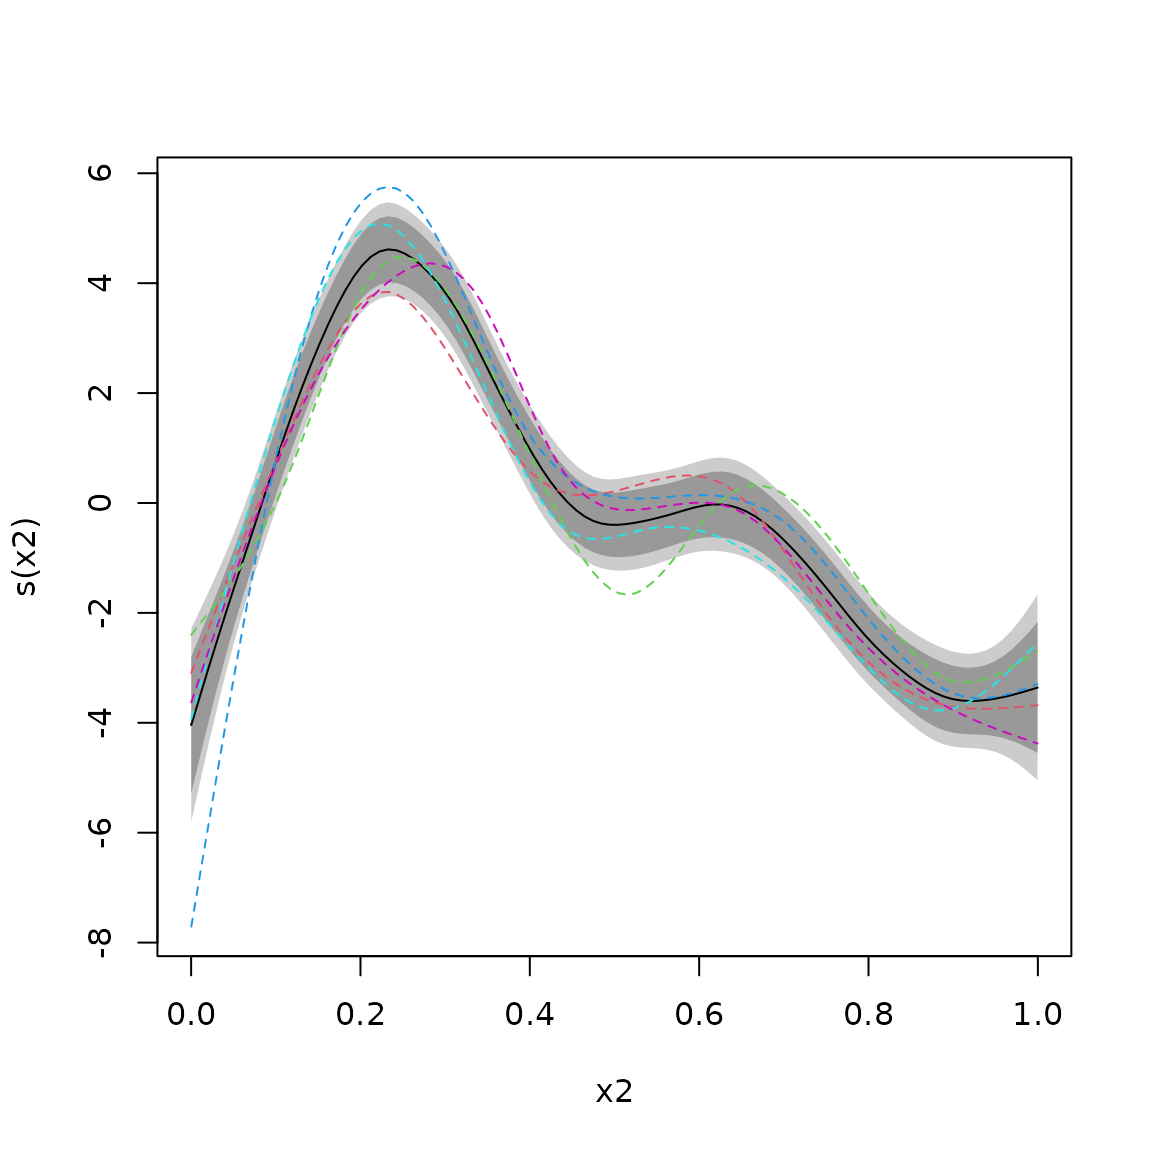
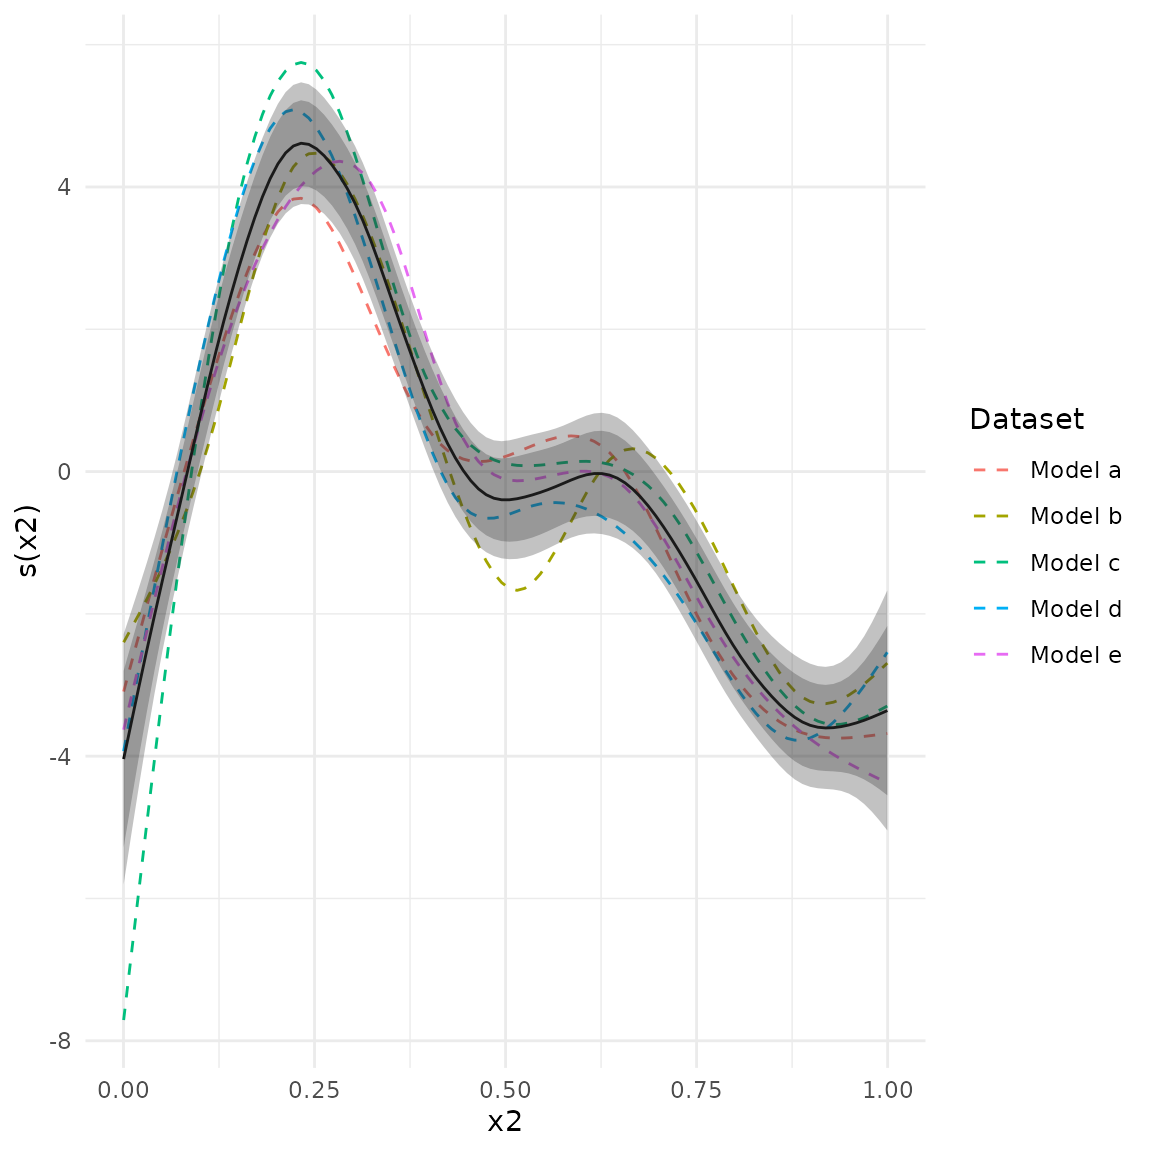
Built site for metagam: 0.3.1.9002@e67d22d

diff --git a/articles/pvals.html b/articles/pvals.html
@@ -295,11 +295,12 @@
   <span class="va">model</span> <span class="op">&lt;-</span> <span class="fu"><a href="https://rdrr.io/pkg/mgcv/man/gam.html" class="external-link">gam</a></span><span class="op">(</span><span class="va">y</span> <span class="op">~</span> <span class="fu"><a href="https://rdrr.io/pkg/mgcv/man/s.html" class="external-link">s</a></span><span class="op">(</span><span class="va">x2</span>, bs <span class="op">=</span> <span class="st">"cr"</span><span class="op">)</span>, data <span class="op">=</span> <span class="va">dat</span><span class="op">)</span>
   <span class="fu"><a href="../reference/strip_rawdata.html">strip_rawdata</a></span><span class="op">(</span><span class="va">model</span><span class="op">)</span>
 <span class="op">}</span><span class="op">)</span>
+<span class="fu"><a href="https://rdrr.io/r/base/names.html" class="external-link">names</a></span><span class="op">(</span><span class="va">models</span><span class="op">)</span> <span class="op">&lt;-</span> <span class="fu"><a href="https://rdrr.io/r/base/paste.html" class="external-link">paste</a></span><span class="op">(</span><span class="st">"Model"</span>, <span class="va">letters</span><span class="op">[</span><span class="fl">1</span><span class="op">:</span><span class="fl">5</span><span class="op">]</span><span class="op">)</span>
 
 <span class="va">meta_analysis</span> <span class="op">&lt;-</span> <span class="fu"><a href="../reference/metagam.html">metagam</a></span><span class="op">(</span><span class="va">models</span>, terms <span class="op">=</span> <span class="st">"s(x2)"</span>, grid_size <span class="op">=</span> <span class="fl">100</span>,
                          nsim <span class="op">=</span> <span class="fl">10000</span>, ci_alpha <span class="op">=</span> <span class="fl">.05</span><span class="op">)</span></code></pre></div>
 <div class="sourceCode" id="cb13"><pre class="downlit sourceCode r">
-<code class="sourceCode R"><span class="fu"><a href="https://rdrr.io/r/graphics/plot.default.html" class="external-link">plot</a></span><span class="op">(</span><span class="va">meta_analysis</span>, ci <span class="op">=</span> <span class="st">"both"</span><span class="op">)</span></code></pre></div>
+<code class="sourceCode R"><span class="fu"><a href="https://rdrr.io/r/graphics/plot.default.html" class="external-link">plot</a></span><span class="op">(</span><span class="va">meta_analysis</span>, ci <span class="op">=</span> <span class="st">"both"</span>, legend <span class="op">=</span> <span class="cn">TRUE</span><span class="op">)</span></code></pre></div>
 <p><img src="pvals_files/figure-html/unnamed-chunk-14-1.png" width="576"></p>
 <p>The p-value is printed with the model summary. In order to get more digits after the decimal point in the p-value, increase the <code>nsim</code> argument.</p>
 <div class="sourceCode" id="cb14"><pre class="downlit sourceCode r">

diff --git a/reference/plot.metagam.html b/reference/plot.metagam.html
@@ -136,12 +136,16 @@ require that <code><a href="metagam.html">metagam</a></code> was run with <code>
 <span class="r-in"><span class="co">## We can plot the meta-analytic fit together with the individual fits</span></span>
 <span class="r-in"><span class="fu"><a href="https://rdrr.io/r/graphics/plot.default.html" class="external-link">plot</a></span><span class="op">(</span><span class="va">meta_analysis</span><span class="op">)</span></span>
 <span class="r-plt img"><img src="plot.metagam-1.png" alt="" width="700" height="433"></span>
+<span class="r-in"><span class="fu"><a href="https://rdrr.io/r/graphics/plot.default.html" class="external-link">plot</a></span><span class="op">(</span><span class="va">meta_analysis</span>, ci <span class="op">=</span> <span class="st">"pointwise"</span><span class="op">)</span></span>
+<span class="r-plt img"><img src="plot.metagam-2.png" alt="" width="700" height="433"></span>
 <span class="r-in"></span>
 <span class="r-in"><span class="co">## We can also compute p-values and simultaneous confidence intervals, by setting the nsim argument.</span></span>
 <span class="r-in"><span class="co">## For details, see the separate vignette.</span></span>
 <span class="r-in"><span class="kw">if</span> <span class="op">(</span><span class="cn">FALSE</span><span class="op">)</span> <span class="op">{</span></span>
 <span class="r-in">  <span class="va">meta_analysis</span> <span class="op">&lt;-</span> <span class="fu"><a href="metagam.html">metagam</a></span><span class="op">(</span><span class="va">models</span>, terms <span class="op">=</span> <span class="st">"s(x0)"</span>, grid_size <span class="op">=</span> <span class="fl">30</span>, nsim <span class="op">=</span> <span class="fl">1000</span><span class="op">)</span></span>
 <span class="r-in">  <span class="fu"><a href="https://rdrr.io/r/base/summary.html" class="external-link">summary</a></span><span class="op">(</span><span class="va">meta_analysis</span><span class="op">)</span></span>
+<span class="r-in">  <span class="fu"><a href="https://rdrr.io/r/graphics/plot.default.html" class="external-link">plot</a></span><span class="op">(</span><span class="va">meta_analysis</span>, ci <span class="op">=</span> <span class="st">"both"</span><span class="op">)</span></span>
+<span class="r-in">  <span class="fu"><a href="https://rdrr.io/r/graphics/plot.default.html" class="external-link">plot</a></span><span class="op">(</span><span class="va">meta_analysis</span>, ci <span class="op">=</span> <span class="st">"simultaneous"</span><span class="op">)</span></span>
 <span class="r-in"><span class="op">}</span></span>
 </code></pre></div>
     </div>

diff --git a/reference/strip_rawdata.html b/reference/strip_rawdata.html
@@ -160,12 +160,16 @@ method to work. Future updates to this package will fix this.</p>
 <span class="r-in"><span class="co">## We can plot the meta-analytic fit together with the individual fits</span></span>
 <span class="r-in"><span class="fu"><a href="https://rdrr.io/r/graphics/plot.default.html" class="external-link">plot</a></span><span class="op">(</span><span class="va">meta_analysis</span><span class="op">)</span></span>
 <span class="r-plt img"><img src="strip_rawdata-1.png" alt="" width="700" height="433"></span>
+<span class="r-in"><span class="fu"><a href="https://rdrr.io/r/graphics/plot.default.html" class="external-link">plot</a></span><span class="op">(</span><span class="va">meta_analysis</span>, ci <span class="op">=</span> <span class="st">"pointwise"</span><span class="op">)</span></span>
+<span class="r-plt img"><img src="strip_rawdata-2.png" alt="" width="700" height="433"></span>
 <span class="r-in"></span>
 <span class="r-in"><span class="co">## We can also compute p-values and simultaneous confidence intervals, by setting the nsim argument.</span></span>
 <span class="r-in"><span class="co">## For details, see the separate vignette.</span></span>
 <span class="r-in"><span class="kw">if</span> <span class="op">(</span><span class="cn">FALSE</span><span class="op">)</span> <span class="op">{</span></span>
 <span class="r-in">  <span class="va">meta_analysis</span> <span class="op">&lt;-</span> <span class="fu"><a href="metagam.html">metagam</a></span><span class="op">(</span><span class="va">models</span>, terms <span class="op">=</span> <span class="st">"s(x0)"</span>, grid_size <span class="op">=</span> <span class="fl">30</span>, nsim <span class="op">=</span> <span class="fl">1000</span><span class="op">)</span></span>
 <span class="r-in">  <span class="fu"><a href="https://rdrr.io/r/base/summary.html" class="external-link">summary</a></span><span class="op">(</span><span class="va">meta_analysis</span><span class="op">)</span></span>
+<span class="r-in">  <span class="fu"><a href="https://rdrr.io/r/graphics/plot.default.html" class="external-link">plot</a></span><span class="op">(</span><span class="va">meta_analysis</span>, ci <span class="op">=</span> <span class="st">"both"</span><span class="op">)</span></span>
+<span class="r-in">  <span class="fu"><a href="https://rdrr.io/r/graphics/plot.default.html" class="external-link">plot</a></span><span class="op">(</span><span class="va">meta_analysis</span>, ci <span class="op">=</span> <span class="st">"simultaneous"</span><span class="op">)</span></span>
 <span class="r-in"><span class="op">}</span></span>
 </code></pre></div>
     </div>

diff --git a/reference/metagam.html b/reference/metagam.html
@@ -184,12 +184,16 @@ implemented.</p></dd>
 <span class="r-in"><span class="co">## We can plot the meta-analytic fit together with the individual fits</span></span>
 <span class="r-in"><span class="fu"><a href="https://rdrr.io/r/graphics/plot.default.html" class="external-link">plot</a></span><span class="op">(</span><span class="va">meta_analysis</span><span class="op">)</span></span>
 <span class="r-plt img"><img src="metagam-1.png" alt="" width="700" height="433"></span>
+<span class="r-in"><span class="fu"><a href="https://rdrr.io/r/graphics/plot.default.html" class="external-link">plot</a></span><span class="op">(</span><span class="va">meta_analysis</span>, ci <span class="op">=</span> <span class="st">"pointwise"</span><span class="op">)</span></span>
+<span class="r-plt img"><img src="metagam-2.png" alt="" width="700" height="433"></span>
 <span class="r-in"></span>
 <span class="r-in"><span class="co">## We can also compute p-values and simultaneous confidence intervals, by setting the nsim argument.</span></span>
 <span class="r-in"><span class="co">## For details, see the separate vignette.</span></span>
 <span class="r-in"><span class="kw">if</span> <span class="op">(</span><span class="cn">FALSE</span><span class="op">)</span> <span class="op">{</span></span>
 <span class="r-in">  <span class="va">meta_analysis</span> <span class="op">&lt;-</span> <span class="fu">metagam</span><span class="op">(</span><span class="va">models</span>, terms <span class="op">=</span> <span class="st">"s(x0)"</span>, grid_size <span class="op">=</span> <span class="fl">30</span>, nsim <span class="op">=</span> <span class="fl">1000</span><span class="op">)</span></span>
 <span class="r-in">  <span class="fu"><a href="https://rdrr.io/r/base/summary.html" class="external-link">summary</a></span><span class="op">(</span><span class="va">meta_analysis</span><span class="op">)</span></span>
+<span class="r-in">  <span class="fu"><a href="https://rdrr.io/r/graphics/plot.default.html" class="external-link">plot</a></span><span class="op">(</span><span class="va">meta_analysis</span>, ci <span class="op">=</span> <span class="st">"both"</span><span class="op">)</span></span>
+<span class="r-in">  <span class="fu"><a href="https://rdrr.io/r/graphics/plot.default.html" class="external-link">plot</a></span><span class="op">(</span><span class="va">meta_analysis</span>, ci <span class="op">=</span> <span class="st">"simultaneous"</span><span class="op">)</span></span>
 <span class="r-in"><span class="op">}</span></span>
 </code></pre></div>
     </div>

diff --git a/articles/introduction.html b/articles/introduction.html
@@ -187,6 +187,10 @@
 <div class="sourceCode" id="cb7"><pre class="downlit sourceCode r">
 <code class="sourceCode R"><span class="fu"><a href="https://rdrr.io/r/graphics/plot.default.html" class="external-link">plot</a></span><span class="op">(</span><span class="va">metafit</span><span class="op">)</span></code></pre></div>
 <p><img src="introduction_files/figure-html/unnamed-chunk-8-1.png" width="60%" style="display: block; margin: auto;"></p>
+<p>We can add confidence intervals. The <span class="math inline">\(\alpha\)</span> is set in the call to <code>metagam</code>, defaulting to <code>0.05</code>.</p>
+<div class="sourceCode" id="cb8"><pre class="downlit sourceCode r">
+<code class="sourceCode R"><span class="fu"><a href="https://rdrr.io/r/graphics/plot.default.html" class="external-link">plot</a></span><span class="op">(</span><span class="va">metafit</span>, ci <span class="op">=</span> <span class="st">"pointwise"</span><span class="op">)</span></code></pre></div>
+<p><img src="introduction_files/figure-html/unnamed-chunk-9-1.png" width="60%" style="display: block; margin: auto;"></p>
 <p>Dominance plots and heterogeneity plots can also be created. These are described in separate vignettes.</p>
 </div>
 <div class="section level2">
